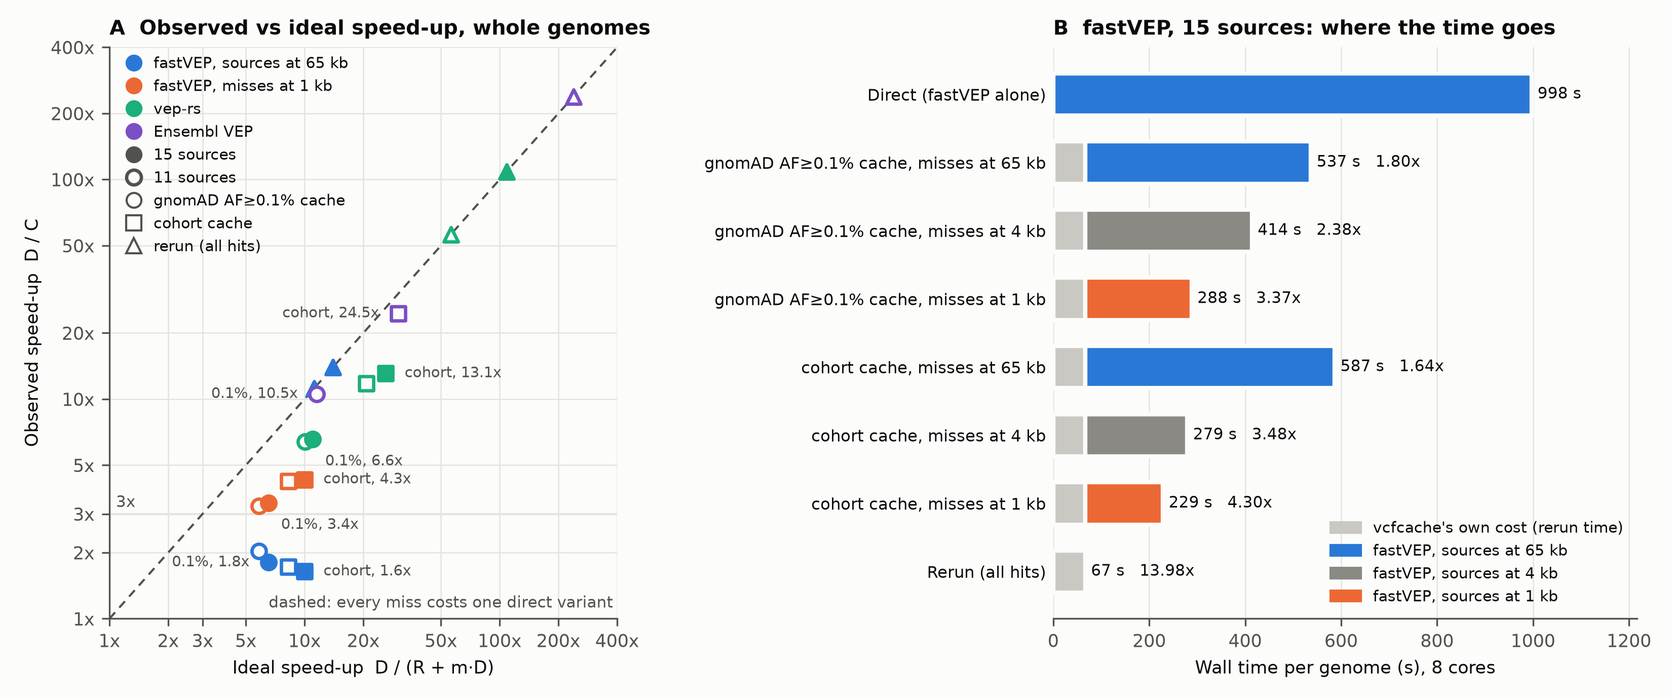
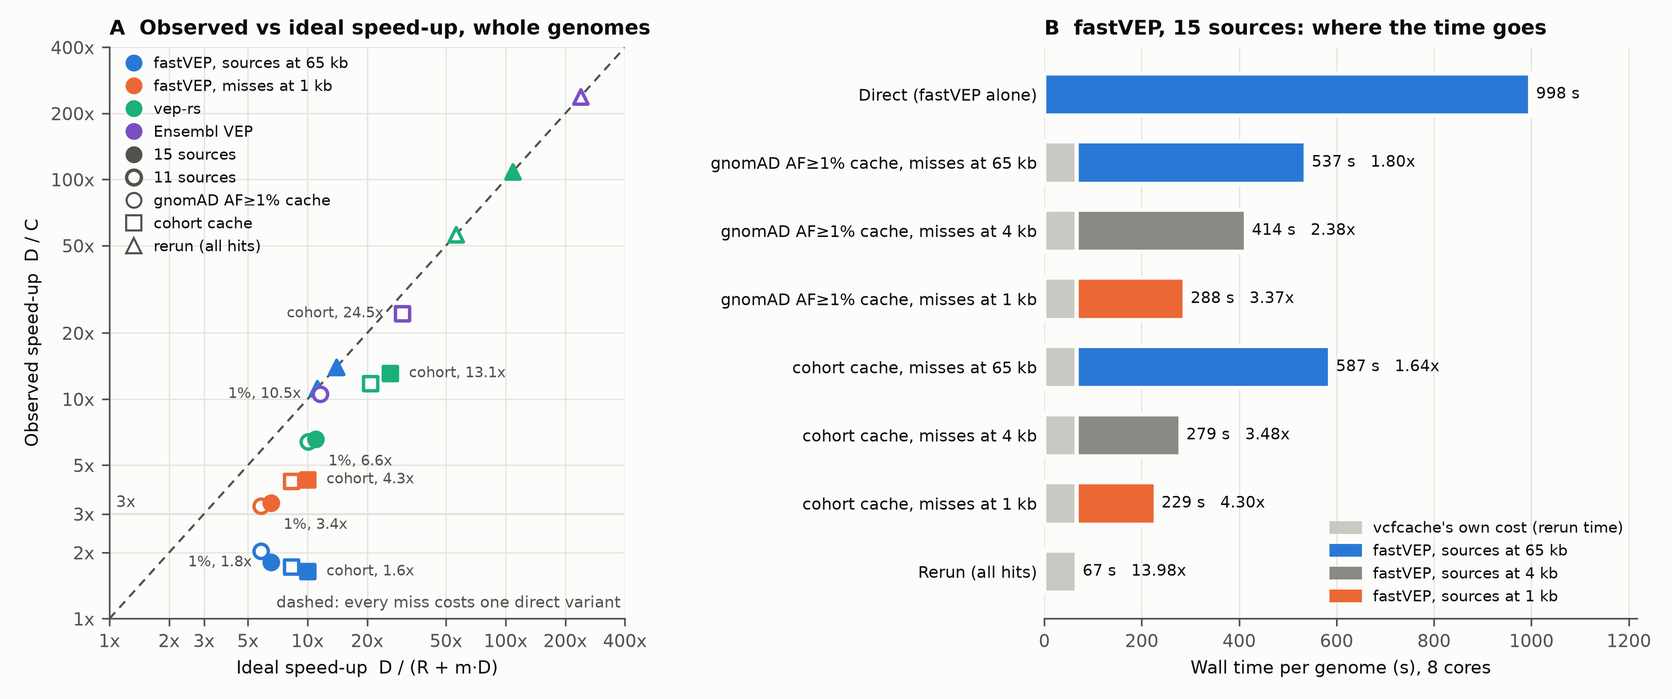
Label the af001 blueprint as gnomAD AF >= 1%, not 0.1%
The af001 blueprint holds the 18.9 M sites with AF >= 0.01 (1%); af0001
(99.9 M sites) is the 0.1% one. The gather-engine results, figure, table,
fastVEP recipe README, WIKI and AGENTS.md said 0.1% and 0.01%. Numbers are
unchanged.

Claude-Session: https://claude.ai/code/session_01D2A16JoaTMo3tdWqaYTFwP

diff --git a/benchmarks/gather_engine/cost_model/figure.py b/benchmarks/gather_engine/cost_model/figure.py
@@ -36,9 +36,9 @@ SETS = [
 # compares one run per arm with the direct run record by record and must show nothing else.
 ALLOWED = {"records", "identical", "HGNC_ID only", "HGNC_ID genes"}
 ARMS = {
-    "af001": ("gnomAD AF>=0.1%", "65 kb"),
-    "af001_narrow": ("gnomAD AF>=0.1%", "4 kb"),
-    "af001_n10": ("gnomAD AF>=0.1%", "1 kb"),
+    "af001": ("gnomAD AF>=1%", "65 kb"),
+    "af001_narrow": ("gnomAD AF>=1%", "4 kb"),
+    "af001_n10": ("gnomAD AF>=1%", "1 kb"),
     "cohort": ("cohort", "65 kb"),
     "cohort_narrow": ("cohort", "4 kb"),
     "cohort_n10": ("cohort", "1 kb"),
@@ -169,7 +169,7 @@ def figure(rs: list[dict]) -> None:
         # fastVEP rerun: no misses, the cache is built from 65 kb sources
         return {"65 kb": BLUE, "1 kb": ORANGE, "-": BLUE}.get(r["miss_width"], GREY)
 
-    marker = {"gnomAD AF>=0.1%": "o", "cohort": "s", "rerun (all hits)": "^"}
+    marker = {"gnomAD AF>=1%": "o", "cohort": "s", "rerun (all hits)": "^"}
     for r in rs:
         if r["miss_width"] == "4 kb":
             continue
@@ -202,8 +202,8 @@ def figure(rs: list[dict]) -> None:
         if (r["sources"] != 15 and not vep) or r["miss_width"] == "4 kb" or r["cache"].startswith("rerun"):
             continue
         gn = r["cache"].startswith("gnomAD")
-        lab = f"{'0.1%' if gn else 'cohort'}, {r['obs']:.1f}x"
-        # cohort labels right of the point; 0.1% labels below-right (clear of the diagonal),
+        lab = f"{'1%' if gn else 'cohort'}, {r['obs']:.1f}x"
+        # cohort labels right of the point; 1% labels below-right (clear of the diagonal),
         # or left where a cohort point sits below-right
         if vep:
             off, ha, va = (-9, 0), "right", "center"
@@ -221,7 +221,7 @@ def figure(rs: list[dict]) -> None:
          Line2D([], [], ls="", marker="o", ms=7, mfc=VIOLET, mec=VIOLET, label="Ensembl VEP"),
          Line2D([], [], ls="", marker="o", ms=7, mfc=INK2, mec=INK2, label="15 sources"),
          Line2D([], [], ls="", marker="o", ms=7, mfc=SURFACE, mec=INK2, mew=1.6, label="11 sources"),
-         Line2D([], [], ls="", marker="o", ms=7, mfc=SURFACE, mec=INK2, label="gnomAD AF≥0.1% cache"),
+         Line2D([], [], ls="", marker="o", ms=7, mfc=SURFACE, mec=INK2, label="gnomAD AF≥1% cache"),
          Line2D([], [], ls="", marker="s", ms=7, mfc=SURFACE, mec=INK2, label="cohort cache"),
          Line2D([], [], ls="", marker="^", ms=7, mfc=SURFACE, mec=INK2, label="rerun (all hits)")]
     a.legend(handles=h, loc="upper left", frameon=False, fontsize=7.2, handletextpad=0.3,
@@ -231,7 +231,7 @@ def figure(rs: list[dict]) -> None:
     sel = [r for r in rs if r["annotator"].startswith("fastVEP") and r["sources"] == 15]
     d = sel[0]["D"]
     bars = [("Direct (fastVEP alone)", None, d, BLUE, None)]
-    for cache, cname in [("gnomAD AF>=0.1%", "gnomAD AF≥0.1% cache"), ("cohort", "cohort cache")]:
+    for cache, cname in [("gnomAD AF>=1%", "gnomAD AF≥1% cache"), ("cohort", "cohort cache")]:
         for w in ["65 kb", "4 kb", "1 kb"]:
             r = next(x for x in sel if x["cache"] == cache and x["miss_width"] == w)
             bars.append((f"{cname}, misses at {w}", r["R"], r["C"] - r["R"],

diff --git a/AGENTS.md b/AGENTS.md
@@ -33,32 +33,32 @@
 - Cached run = vcfcache pulls the hits + the annotator runs on the misses. It only wins if the annotator's run on the misses is much cheaper than its run on everything.
 - vcfcache's own cost: about 17 s fixed (reading the 18.9 M-record cache) + 8.7 us wall per variant; 57 s for this genome.
 - fastVEP per variant: about 20 us wall for base, `--hgvs`, `--everything`, ClinVar, gnomAD, REVEL; about 40 us with dbSNP and AlphaMissense added. Flags and sources add almost nothing per variant.
-- fastVEP reads a source in blocks of genome and answers every variant in a block almost for free, so a source costs per block opened, not per variant. Cache misses (8.2% with the AF >= 0.1% gnomAD blueprint, 3.0% with AF >= 0.01%) are spread over the whole genome and open nearly every block, so the annotator's run on the misses costs almost as much as on all variants for the source part.
+- fastVEP reads a source in blocks of genome and answers every variant in a block almost for free, so a source costs per block opened, not per variant. Cache misses (8.2% with the AF >= 1% gnomAD blueprint, 3.0% with AF >= 0.1%) are spread over the whole genome and open nearly every block, so the annotator's run on the misses costs almost as much as on all variants for the source part.
 - Results: clinical stack (HGVS, ClinVar, gnomAD) 141 s uncached, 91 s cached (1.55x). Dense stack (adds dbSNP, AlphaMissense), extrapolated from chr1: about 1.3x. SpliceAI2 scores (5 columns, chr21 region): 3.5 s per 5 Mb whether 4,000 or 32,000 variants are annotated.
 - fastVEP's generic `custom_vcf` source builder holds all records in memory (out of memory at 28 GB for 12.7 M records with 79 columns); dedicated readers stream.
 - Record order: cached output equals direct output record for record since 0bd2030b3 (hits and misses sharing a position used to swap).
 - Setup flaw found 2026-11-19 (affects the two fastVEP mission bullets below): fastVEP makes every `custom_vcf` file a source of its own, also when several files share one `--name` (fields `FV_TRACKA`, `FV_TRACKA_2`, ... `_24`, each repeating the value). The mock tracks were built per chromosome, so fastVEP looked up and printed each track 24 times; the uncached baseline was therefore too slow and those speedups are too high. A custom source must be one genome-wide file (`build_tracks1.sh`: 94.8 M rows, 5-7 min, 20.8 GB peak). gnomAD genomes as 166 custom pieces made it far worse (chr22 alone: 80 s instead of 21 s; whole genome over 40 min and 30,600 CPU-s vs 624 s and 2,400 CPU-s without it); it is dropped, since a genome-wide custom build of ~760 M records does not fit in memory. `wgs_mission.sh` now stops if any `FV_*_<n>` field appears. Corrected runs: jobs 3410-3415 (`mission[2]f_wgs_<sample>`), results below.
 - Corrected mission runs (2026-11-19, `wgs_mission.sh`, one genome-wide file per mock track; 3 KPGP samples, 3 repeats, outputs identical to uncached in every run; median speedup over uncached):
-  - 11 sources + 2 tracks, uncached 665-685 s: 0.1% 2.0-2.1x, 0.1%+narrow 2.3-2.5x, cohort 1.6-1.8x, cohort+narrow 3.1-3.4x, rerun 11.1-11.5x.
-  - 15 sources + 2 tracks (adds 1000 Genomes, GERP, dbNSFP, ENCODE cCREs), uncached 911-996 s: 0.1% 1.75-1.83x, 0.1%+narrow 2.3-2.4x, cohort 1.55-1.73x, cohort+narrow 3.3-3.55x, rerun 13.6-15.2x.
-  - Block width for the miss step (`diag_nb.sh`, chr1 of KPGP-00128, fastVEP alone, s, mean of 2; output identical at every width). All 369 k variants at 65 kb: 39.6 (11 sources) / 54.2 (15). 0.1% misses (38 k) at 65 kb / 4 kb / 1 kb / 256 bp: 25.6/19.6/15.8/29.6 (11) and 41.6/27.0/20.5/37.4 (15). Cohort misses (12.5 k): 26.0/11.3/11.8/25.2 (11) and 38.9/15.3/13.4/30.3 (15). At 1 kb the misses pay 4.7 s (0.1%) and 1.6 s (cohort) of the 14.6 s the four added sources cost on all variants, so with 1 kb miss sources each added source raises the speedup. 256 bp is too fine (13 GB, index-bound). Whole-genome 1 kb arms: builds 3434-3479, benchmarks 3480-3485 (`N10=1`, `results/mission[2]fn10_wgs_<sample>.tsv`).
-  - Whole-genome result, miss step at 65 kb / 4 kb / 1 kb (3 samples x 3 repeats, median of per-sample median speedups; one digest per sample over all arms). 11 sources (uncached 669-694 s): 0.1% 2.03x/2.52x/3.26x, cohort 1.73x/3.40x/4.23x, rerun 11.2x. 15 sources (uncached 913-999 s): 0.1% 1.80x/2.38x/3.37x, cohort 1.64x/3.48x/4.30x, rerun 14.0x. Only at 1 kb do the four added sources raise the speedup in every arm: they add ~310 s uncached but ~90 s (0.1%, 205->300 s) and ~60 s (cohort, 161->225 s) cached, so the time saved grows from 470 to 680 s (0.1%) and 512 to 770 s (cohort). The ratio gains less than the saving, because misses still pay per-block cost and the dense added sources (GERP, 1000G) have little per-variant cost.
-  - The added sources are dense (GERP: a score per base; 1000 Genomes): fastVEP's cost for them is mostly per block opened, which the miss run still pays at 65 kb (0.1% cache: +194 s of the +233 s they add uncached). Speedup grows with sources only where the miss run skips blocks (cohort+narrow) or there are no misses (rerun 11x -> 14x).
-  - Widths below 1 kb (2026-11-20, `diag_nb.sh` with `BS="16 10 9 8" TAG=9`, chr1 of KPGP-00128, s, mean of 2; `results/diag_nb9_chr1_KPGP-00128.tsv`): 0.1% misses at 65 kb/1 kb/512 bp/256 bp 26.2/17.4/20.6/32.0 (11 sources) and 40.6/21.5/27.0/40.7 (15); cohort misses 28.4/12.0/17.6/29.8 and 42.2/14.5/18.2/34.8. 1 kb is the optimum; 15-source chr1 files 2.5/5.3/7.8/13 GB.
+  - 11 sources + 2 tracks, uncached 665-685 s: 1% 2.0-2.1x, 1%+narrow 2.3-2.5x, cohort 1.6-1.8x, cohort+narrow 3.1-3.4x, rerun 11.1-11.5x.
+  - 15 sources + 2 tracks (adds 1000 Genomes, GERP, dbNSFP, ENCODE cCREs), uncached 911-996 s: 1% 1.75-1.83x, 1%+narrow 2.3-2.4x, cohort 1.55-1.73x, cohort+narrow 3.3-3.55x, rerun 13.6-15.2x.
+  - Block width for the miss step (`diag_nb.sh`, chr1 of KPGP-00128, fastVEP alone, s, mean of 2; output identical at every width). All 369 k variants at 65 kb: 39.6 (11 sources) / 54.2 (15). 1% misses (38 k) at 65 kb / 4 kb / 1 kb / 256 bp: 25.6/19.6/15.8/29.6 (11) and 41.6/27.0/20.5/37.4 (15). Cohort misses (12.5 k): 26.0/11.3/11.8/25.2 (11) and 38.9/15.3/13.4/30.3 (15). At 1 kb the misses pay 4.7 s (1%) and 1.6 s (cohort) of the 14.6 s the four added sources cost on all variants, so with 1 kb miss sources each added source raises the speedup. 256 bp is too fine (13 GB, index-bound). Whole-genome 1 kb arms: builds 3434-3479, benchmarks 3480-3485 (`N10=1`, `results/mission[2]fn10_wgs_<sample>.tsv`).
+  - Whole-genome result, miss step at 65 kb / 4 kb / 1 kb (3 samples x 3 repeats, median of per-sample median speedups; one digest per sample over all arms). 11 sources (uncached 669-694 s): 1% 2.03x/2.52x/3.26x, cohort 1.73x/3.40x/4.23x, rerun 11.2x. 15 sources (uncached 913-999 s): 1% 1.80x/2.38x/3.37x, cohort 1.64x/3.48x/4.30x, rerun 14.0x. Only at 1 kb do the four added sources raise the speedup in every arm: they add ~310 s uncached but ~90 s (1%, 205->300 s) and ~60 s (cohort, 161->225 s) cached, so the time saved grows from 470 to 680 s (1%) and 512 to 770 s (cohort). The ratio gains less than the saving, because misses still pay per-block cost and the dense added sources (GERP, 1000G) have little per-variant cost.
+  - The added sources are dense (GERP: a score per base; 1000 Genomes): fastVEP's cost for them is mostly per block opened, which the miss run still pays at 65 kb (1% cache: +194 s of the +233 s they add uncached). Speedup grows with sources only where the miss run skips blocks (cohort+narrow) or there are no misses (rerun 11x -> 14x).
+  - Widths below 1 kb (2026-11-20, `diag_nb.sh` with `BS="16 10 9 8" TAG=9`, chr1 of KPGP-00128, s, mean of 2; `results/diag_nb9_chr1_KPGP-00128.tsv`): 1% misses at 65 kb/1 kb/512 bp/256 bp 26.2/17.4/20.6/32.0 (11 sources) and 40.6/21.5/27.0/40.7 (15); cohort misses 28.4/12.0/17.6/29.8 and 42.2/14.5/18.2/34.8. 1 kb is the optimum; 15-source chr1 files 2.5/5.3/7.8/13 GB.
   - One source set or two (2026-11-20, `wgs_width.sh`, `results/width[2]_wgs_<sample>.tsv`, digests identical): direct whole genome at 65 kb vs 1 kb 676 vs 922 s (11 sources, KPGP-00128) and 992 vs 1428 s (15, KPGP-00006); cache build of the 18.9 M-record blueprint 785 vs 1298 s and 1281 vs 2021 s. Dense input must read 65 kb sources, so the recipe keeps two folders (13+19 GB, 18+28 GB).
   - Fixed cost of 1 kb sources (2026-11-20, `fixed_cost.sh`, 11 sources, random genome-wide subsets of KPGP-00128, s, 3 repeats; `results/fixed_cost_KPGP-00128.tsv`): 0 variants 5.3 vs 14.8 (65 kb vs 1 kb), 1 k 13-36 vs 14-28, 10 k 88 vs 47, 100 k 348 vs 102. 1 kb adds ~10 s per run (index load) and pays off from a few thousand scattered misses. Recipe test on chr22 alone (7,384 misses in one chromosome, `recipe_test.sh`, job 3505, identical digests): direct 14.8 s, misses at 65 kb 12.4 s, at 1 kb 18.0 s, so 1 kb is for whole genomes, not for small or single-chromosome inputs.
-  - Exomes and panels (2026-11-22, `assay_test.sh`, jobs 3521-3526; the sample's genome restricted to Twist core exome pad 125 (74-81 k variants) and ACMG SF v3.3 CDS pad 20 (207-289); 3 samples x 3 repeats, digests identical; `results/assay[2]_KPGP-<sample>.tsv`). Exome, 11 / 15 sources: direct 224-252 / 330-358 s; 0.1% cache 3.60x/3.79x and 3.76x/3.68x (misses at 65 kb / 1 kb); cohort 3.53x/4.96x and 3.43x/4.08x; rerun 17.5x / 18.6x. Panel: direct 6-8 s; 0.1% 1.05-1.12x at 65 kb, 0.34-0.43x at 1 kb; rerun 1.2-1.35x. Exome variants still touch blocks genome-wide (direct exome = a third of a direct genome). Rule: 1 kb miss sources for genomes and exomes, 65 kb for panels and single chromosomes.
+  - Exomes and panels (2026-11-22, `assay_test.sh`, jobs 3521-3526; the sample's genome restricted to Twist core exome pad 125 (74-81 k variants) and ACMG SF v3.3 CDS pad 20 (207-289); 3 samples x 3 repeats, digests identical; `results/assay[2]_KPGP-<sample>.tsv`). Exome, 11 / 15 sources: direct 224-252 / 330-358 s; 1% cache 3.60x/3.79x and 3.76x/3.68x (misses at 65 kb / 1 kb); cohort 3.53x/4.96x and 3.43x/4.08x; rerun 17.5x / 18.6x. Panel: direct 6-8 s; 1% 1.05-1.12x at 65 kb, 0.34-0.43x at 1 kb; rerun 1.2-1.35x. Exome variants still touch blocks genome-wide (direct exome = a third of a direct genome). Rule: 1 kb miss sources for genomes and exomes, 65 kb for panels and single chromosomes.
 - Mission stack, whole genome (2026-11-17, superseded by the corrected runs; `wgs_mission.sh`; 11 sources incl. dbSNP, gnomAD, SpliceAI, PhyloP, AlphaMissense + 2 mock tracks of ~100 M rows; 3 KPGP samples, 3 repeats, sl-w1/3/5, 16 cores; output identical to uncached record for record in every run). Median speedup over uncached fastVEP (~705-730 s):
-  - AF >= 0.1% blueprint: 2.0-2.15x (8.2% misses); with narrow-block sources for the misses only: 2.2-2.4x.
+  - AF >= 1% blueprint: 2.0-2.15x (8.2% misses); with narrow-block sources for the misses only: 2.2-2.4x.
   - Cohort cache (blueprint + the other 22 KPGP samples, 2.9-3.1% misses): 1.7x; with narrow sources for the misses: 3.2-3.65x.
-  - AF >= 0.01% blueprint (one sample): 1.56x, narrow 3.16x. The user considers it the least important (hard to roll out on Zenodo, little gain over 0.1% or a cohort cache); it runs only with `AF0001=1`.
+  - AF >= 0.1% blueprint (one sample): 1.56x, narrow 3.16x. The user considers it the least important (hard to roll out on Zenodo, little gain over 1% or a cohort cache); it runs only with `AF0001=1`.
   - Rerun of a sample already in the cache (no misses): 10.6-11.7x.
   - With few misses the annotator still opens nearly every 65 kb block of every source, so narrow blocks for the miss step are what turns a lower miss rate into time saved. The uncached baseline always uses fastVEP's advised 65 kb blocks.
-  - Why the cohort cache is no faster than the 0.1% cache at 65 kb (`diag_cohort.sh`, KPGP-00128): fastVEP alone on the misses takes ~380 s for 376 k misses and for 132 k misses alike (more than half of its 690 s on all 4.6 M variants): the cost is opening source blocks genome-wide, not the variants. The cached run is bounded by that step (0.1%: 332/387 s, cohort: 387/379 s, equal within noise). With narrow sources the misses take 250-260 s (0.1%) and 150-155 s (cohort). The hit lookup alone: 70 s (18.9 M cache records), 75 s (23.8 M).
-- vep-rs 0.5.0, same stack and samples (2026-11-18, `wgs_mission_veprs.sh`; vep-rs has no `--custom`, so the sources are its built-in plugins: generic dbNSFP-plugin tables for ClinVar, gnomAD exomes with ten groups, dbSNP, PhyloP and the two mock tracks; SpliceAI, REVEL, AlphaMissense, pLI, LoFtool, GWAS plugins; no RepeatMasker). Uncached 2,844-2,951 s. Median speedup, 3 repeats, outputs identical: 0.1% blueprint 6.3-6.6x, cohort 11.5-12.3x, rerun 52-58x. vep-rs looks up each variant in tabix tables, so its cost scales with the variants and few misses cost little.
-  - Larger vep-rs stack (2026-11-20, `wgs_mission_veprs.sh STACK2=1`: adds 1000 Genomes AF table, dbNSFP SIFT4G/PolyPhen2 and GERP/phyloP via the dbNSFP plugin; jobs 3498-3503; `results/veprs_mission2_wgs_<sample>.tsv`, one digest per sample): uncached 5930-6472 s (vs 2844-2951 s with 11 sources); 0.1% 6.47-6.68x (vs 6.26-6.61x), cohort 12.8-14.0x (vs 11.5-12.3x), rerun 106-115x (vs 52-58x). vep-rs pays per variant, so added sources keep or raise the speedup without any tool-specific setting.
+  - Why the cohort cache is no faster than the 1% cache at 65 kb (`diag_cohort.sh`, KPGP-00128): fastVEP alone on the misses takes ~380 s for 376 k misses and for 132 k misses alike (more than half of its 690 s on all 4.6 M variants): the cost is opening source blocks genome-wide, not the variants. The cached run is bounded by that step (1%: 332/387 s, cohort: 387/379 s, equal within noise). With narrow sources the misses take 250-260 s (1%) and 150-155 s (cohort). The hit lookup alone: 70 s (18.9 M cache records), 75 s (23.8 M).
+- vep-rs 0.5.0, same stack and samples (2026-11-18, `wgs_mission_veprs.sh`; vep-rs has no `--custom`, so the sources are its built-in plugins: generic dbNSFP-plugin tables for ClinVar, gnomAD exomes with ten groups, dbSNP, PhyloP and the two mock tracks; SpliceAI, REVEL, AlphaMissense, pLI, LoFtool, GWAS plugins; no RepeatMasker). Uncached 2,844-2,951 s. Median speedup, 3 repeats, outputs identical: 1% blueprint 6.3-6.6x, cohort 11.5-12.3x, rerun 52-58x. vep-rs looks up each variant in tabix tables, so its cost scales with the variants and few misses cost little.
+  - Larger vep-rs stack (2026-11-20, `wgs_mission_veprs.sh STACK2=1`: adds 1000 Genomes AF table, dbNSFP SIFT4G/PolyPhen2 and GERP/phyloP via the dbNSFP plugin; jobs 3498-3503; `results/veprs_mission2_wgs_<sample>.tsv`, one digest per sample): uncached 5930-6472 s (vs 2844-2951 s with 11 sources); 1% 6.47-6.68x (vs 6.26-6.61x), cohort 12.8-14.0x (vs 11.5-12.3x), rerun 106-115x (vs 52-58x). vep-rs pays per variant, so added sources keep or raise the speedup without any tool-specific setting.
 - Larger fastVEP stack (`wgs_mission_stack2.sh`, run with `STACK2=1`): adds 1000 Genomes 30x, GERP 91 mammals, dbNSFP 5.4a (fastVEP's reader keeps only SIFT/PolyPhen: 0.2 GB) and ENCODE cCREs: 15 known sources + 2 mock tracks. gnomAD genomes is built too but left out (see the setup flaw above). dbNSFP is academic (CC BY-NC-ND): no published cache from it; its download links are private files on the cluster.
-- Ensembl VEP 116.3, same eleven sources and samples (2026-11-23, `wgs_mission_vep116.sh`, `vep116_stack.sh`; ClinVar, gnomAD exomes, dbSNP, SpliceAI, PhyloP and the two mock tracks as exact-match `--custom` VCFs made from the vep-rs tables by `vep116_custom.sh`; REVEL, AlphaMissense, pLI, LoFtool, GWAS plugins; 8 forks; jobs 3530-3560). VEP's dbNSFP plugin needs a version in the file name and fills only SNVs in transcripts, and its SpliceAI plugin needs matching gene symbols, hence `--custom`. Cache annotated in 16 parts of 44-55 min (about 13 node-hours). Uncached 13,048-14,014 s; median 0.1% blueprint 10.4-10.7x (91% of ideal, cost per miss 1.10x), cohort 23.6-24.7x, rerun 236-241x. Outputs: `vep116_compare.py` (ARM=compare) finds only `HGNC_ID` differences (the known VEP bug below), 164-277 records per genome, every other record identical; `results/vep116_{mission,compare}_wgs_<sample>.tsv`. The slower the annotator per variant, the closer vcfcache gets to the ideal.
+- Ensembl VEP 116.3, same eleven sources and samples (2026-11-23, `wgs_mission_vep116.sh`, `vep116_stack.sh`; ClinVar, gnomAD exomes, dbSNP, SpliceAI, PhyloP and the two mock tracks as exact-match `--custom` VCFs made from the vep-rs tables by `vep116_custom.sh`; REVEL, AlphaMissense, pLI, LoFtool, GWAS plugins; 8 forks; jobs 3530-3560). VEP's dbNSFP plugin needs a version in the file name and fills only SNVs in transcripts, and its SpliceAI plugin needs matching gene symbols, hence `--custom`. Cache annotated in 16 parts of 44-55 min (about 13 node-hours). Uncached 13,048-14,014 s; median 1% blueprint 10.4-10.7x (91% of ideal, cost per miss 1.10x), cohort 23.6-24.7x, rerun 236-241x. Outputs: `vep116_compare.py` (ARM=compare) finds only `HGNC_ID` differences (the known VEP bug below), 164-277 records per genome, every other record identical; `results/vep116_{mission,compare}_wgs_<sample>.tsv`. The slower the annotator per variant, the closer vcfcache gets to the ideal.
 - Cost-model figure and table (2026-11-22, `cost_model/figure.py`; `results/cost_model_table.{tsv,md}`, `results/cost_model_figure.{png,pdf}`; matplotlib needed only for the figure): per annotator x stack x cache x miss-step width, observed speedup D/C vs ideal D/(R + m D) (R = rerun time, m = miss fraction) and cost per miss (C - R)/(m D). Ensembl VEP reaches 81-91% of ideal (cost per miss 1.1-1.25x), vep-rs 50-64% (1.7-2.2x); fastVEP 16-35% at 65 kb (cost per miss 5-18x) and 43-56% at 1 kb (2.6-5.4x). Panel B: time split into vcfcache's own cost and fastVEP on the misses, 15 sources.
 - Scripts: `benchmarks/gather_engine/cost_model/`; per-run tables in `benchmarks/gather_engine/cost_model/results/`; everything else on the cluster under `/results/fastvep05/cost_model/`.
 

diff --git a/benchmarks/gather_engine/cost_model/results/cost_model_table.md b/benchmarks/gather_engine/cost_model/results/cost_model_table.md
@@ -1,26 +1,26 @@
 | Annotator | Sources | Cache | Miss-step blocks | Direct (s) | Cached (s) | Misses | Speed-up (range) | Ideal | Share of ideal | Cost per miss |
 |---|---|---|---|---|---|---|---|---|---|---|
-| fastVEP 0.5.0 | 11 | gnomAD AF>=0.1% | 65 kb | 681 | 336 | 8.2% | 2.03x (2.02-2.06) | 5.8x | 35% | 4.86x |
-| fastVEP 0.5.0 | 11 | gnomAD AF>=0.1% | 4 kb | 681 | 270 | 8.2% | 2.52x (2.50-2.54) | 5.8x | 43% | 3.70x |
-| fastVEP 0.5.0 | 11 | gnomAD AF>=0.1% | 1 kb | 681 | 209 | 8.2% | 3.26x (3.26-3.29) | 5.8x | 56% | 2.61x |
+| fastVEP 0.5.0 | 11 | gnomAD AF>=1% | 65 kb | 681 | 336 | 8.2% | 2.03x (2.02-2.06) | 5.8x | 35% | 4.86x |
+| fastVEP 0.5.0 | 11 | gnomAD AF>=1% | 4 kb | 681 | 270 | 8.2% | 2.52x (2.50-2.54) | 5.8x | 43% | 3.70x |
+| fastVEP 0.5.0 | 11 | gnomAD AF>=1% | 1 kb | 681 | 209 | 8.2% | 3.26x (3.26-3.29) | 5.8x | 56% | 2.61x |
 | fastVEP 0.5.0 | 11 | cohort | 65 kb | 681 | 397 | 2.9% | 1.73x (1.72-1.74) | 8.3x | 21% | 16.63x |
 | fastVEP 0.5.0 | 11 | cohort | 4 kb | 681 | 201 | 2.9% | 3.40x (3.24-3.41) | 8.3x | 41% | 6.98x |
 | fastVEP 0.5.0 | 11 | cohort | 1 kb | 681 | 161 | 2.9% | 4.23x (4.06-4.26) | 8.3x | 51% | 4.99x |
 | fastVEP 0.5.0 | 11 | rerun (all hits) | - | 681 | 62 | 0.0% | 11.16x (10.81-11.21) | 11.2x | 100% | - |
-| fastVEP 0.5.0 | 15 | gnomAD AF>=0.1% | 65 kb | 998 | 537 | 8.2% | 1.80x (1.73-1.86) | 6.5x | 28% | 5.80x |
-| fastVEP 0.5.0 | 15 | gnomAD AF>=0.1% | 4 kb | 998 | 414 | 8.2% | 2.38x (2.27-2.41) | 6.5x | 36% | 4.29x |
-| fastVEP 0.5.0 | 15 | gnomAD AF>=0.1% | 1 kb | 998 | 288 | 8.2% | 3.37x (3.32-3.46) | 6.5x | 52% | 2.74x |
+| fastVEP 0.5.0 | 15 | gnomAD AF>=1% | 65 kb | 998 | 537 | 8.2% | 1.80x (1.73-1.86) | 6.5x | 28% | 5.80x |
+| fastVEP 0.5.0 | 15 | gnomAD AF>=1% | 4 kb | 998 | 414 | 8.2% | 2.38x (2.27-2.41) | 6.5x | 36% | 4.29x |
+| fastVEP 0.5.0 | 15 | gnomAD AF>=1% | 1 kb | 998 | 288 | 8.2% | 3.37x (3.32-3.46) | 6.5x | 52% | 2.74x |
 | fastVEP 0.5.0 | 15 | cohort | 65 kb | 998 | 587 | 2.9% | 1.64x (1.56-1.71) | 10.0x | 16% | 17.66x |
 | fastVEP 0.5.0 | 15 | cohort | 4 kb | 998 | 279 | 2.9% | 3.48x (3.35-3.57) | 10.0x | 35% | 7.39x |
 | fastVEP 0.5.0 | 15 | cohort | 1 kb | 998 | 229 | 2.9% | 4.30x (4.29-4.36) | 10.0x | 43% | 5.39x |
 | fastVEP 0.5.0 | 15 | rerun (all hits) | - | 998 | 67 | 0.0% | 13.98x (13.76-14.98) | 14.0x | 100% | - |
-| vep-rs 0.5.0 | 11 | gnomAD AF>=0.1% | - | 2937 | 454 | 8.2% | 6.40x (6.26-6.61) | 10.1x | 64% | 1.65x |
+| vep-rs 0.5.0 | 11 | gnomAD AF>=1% | - | 2937 | 454 | 8.2% | 6.40x (6.26-6.61) | 10.1x | 64% | 1.65x |
 | vep-rs 0.5.0 | 11 | cohort | - | 2937 | 250 | 2.9% | 11.80x (11.46-12.26) | 20.8x | 57% | 2.23x |
 | vep-rs 0.5.0 | 11 | rerun (all hits) | - | 2937 | 51 | 0.0% | 56.22x (52.22-58.39) | 56.2x | 100% | - |
-| vep-rs 0.5.0 | 15 | gnomAD AF>=0.1% | - | 6391 | 957 | 8.2% | 6.56x (6.47-6.68) | 11.0x | 60% | 1.72x |
+| vep-rs 0.5.0 | 15 | gnomAD AF>=1% | - | 6391 | 957 | 8.2% | 6.56x (6.47-6.68) | 11.0x | 60% | 1.72x |
 | vep-rs 0.5.0 | 15 | cohort | - | 6391 | 463 | 2.9% | 13.09x (12.83-13.98) | 26.0x | 50% | 2.20x |
 | vep-rs 0.5.0 | 15 | rerun (all hits) | - | 6391 | 56 | 0.0% | 108.76x (106.48-114.76) | 108.8x | 100% | - |
-| Ensembl VEP 116.3 | 11 | gnomAD AF>=0.1% | - | 13211 | 1261 | 8.2% | 10.54x (10.41-10.71) | 11.6x | 91% | 1.10x |
+| Ensembl VEP 116.3 | 11 | gnomAD AF>=1% | - | 13211 | 1261 | 8.2% | 10.54x (10.41-10.71) | 11.6x | 91% | 1.10x |
 | Ensembl VEP 116.3 | 11 | cohort | - | 13211 | 536 | 2.9% | 24.52x (23.58-24.71) | 30.1x | 81% | 1.25x |
 | Ensembl VEP 116.3 | 11 | rerun (all hits) | - | 13211 | 56 | 0.0% | 238.45x (235.59-240.87) | 238.5x | 100% | - |
 

diff --git a/vcfcache/recipes/grch38_fastvep0.5/README.md b/vcfcache/recipes/grch38_fastvep0.5/README.md
@@ -10,7 +10,7 @@ fastVEP reads each source (`.osa2`) in blocks. `fastvep sa-build --chunk-bits 16
 touches nearly every block, so each block is read once and used for many variants.
 
 vcfcache sends fastVEP only the variants that are **not** in the cache. These are
-few (for a whole genome, about 8% against the gnomAD AF >= 0.1% blueprint and 3%
+few (for a whole genome, about 8% against the gnomAD AF >= 1% blueprint and 3%
 against a cohort cache), and they are spread over the whole genome. With 65 kb
 blocks they still open nearly every block of every source, so a cached run pays
 almost the full source cost for a small fraction of the variants. The same
@@ -24,8 +24,8 @@ annotation at 65 kb:
 
 | Cache | Misses at 65 kb | Misses at 4 kb | Misses at 1 kb |
 |---|---|---|---|
-| gnomAD AF >= 0.1%, 11 sources | 2.03x | 2.52x | 3.26x |
-| gnomAD AF >= 0.1%, 15 sources | 1.80x | 2.38x | 3.37x |
+| gnomAD AF >= 1%, 11 sources | 2.03x | 2.52x | 3.26x |
+| gnomAD AF >= 1%, 15 sources | 1.80x | 2.38x | 3.37x |
 | cohort, 11 sources | 1.73x | 3.40x | 4.23x |
 | cohort, 15 sources | 1.64x | 3.48x | 4.30x |
 
@@ -49,7 +49,7 @@ sources. The two folders take about 2.5 times the disk of one (18 + 28 GB for
 larger 1 kb indexes adds about 10-15 s to every run. That pays off when the
 misses are spread over the genome, and costs time when they are few or local:
 
-| Input (3 samples, median) | Direct | 0.1% cache, misses at 65 kb / 1 kb | cohort cache, 65 kb / 1 kb |
+| Input (3 samples, median) | Direct | 1% cache, misses at 65 kb / 1 kb | cohort cache, 65 kb / 1 kb |
 |---|---|---|---|
 | Exome (Twist core, 74-81 k variants), 11 sources | 224-252 s | 3.60x / 3.79x | 3.53x / 4.96x |
 | Exome, 15 sources | 330-358 s | 3.76x / 3.68x | 3.43x / 4.08x |

diff --git a/WIKI.md b/WIKI.md
@@ -589,8 +589,8 @@ fastVEP 0.5.0, 3 samples:
 
 | Cache | Sources | Misses at 65 kb | at 4 kb | at 1 kb |
 |---|---|---|---|---|
-| gnomAD AF >= 0.1% | 11 | 2.03x | 2.52x | 3.26x |
-| gnomAD AF >= 0.1% | 15 | 1.80x | 2.38x | 3.37x |
+| gnomAD AF >= 1% | 11 | 2.03x | 2.52x | 3.26x |
+| gnomAD AF >= 1% | 15 | 1.80x | 2.38x | 3.37x |
 | cohort | 11 | 1.73x | 3.40x | 4.23x |
 | cohort | 15 | 1.64x | 3.48x | 4.30x |
 
@@ -612,7 +612,7 @@ the 1 kb sources.
 
 vep-rs, which looks sources up per variant, needs no such setting: with four
 more sources its direct time doubles (about 2,900 to 6,300 s) and the speed-up
-rises slightly (gnomAD AF >= 0.1% cache 6.3-6.6x to 6.5-6.7x, cohort cache
+rises slightly (gnomAD AF >= 1% cache 6.3-6.6x to 6.5-6.7x, cohort cache
 11.5-12.3x to 12.8-14.0x).
 
 ### Scalability: cache size independence
